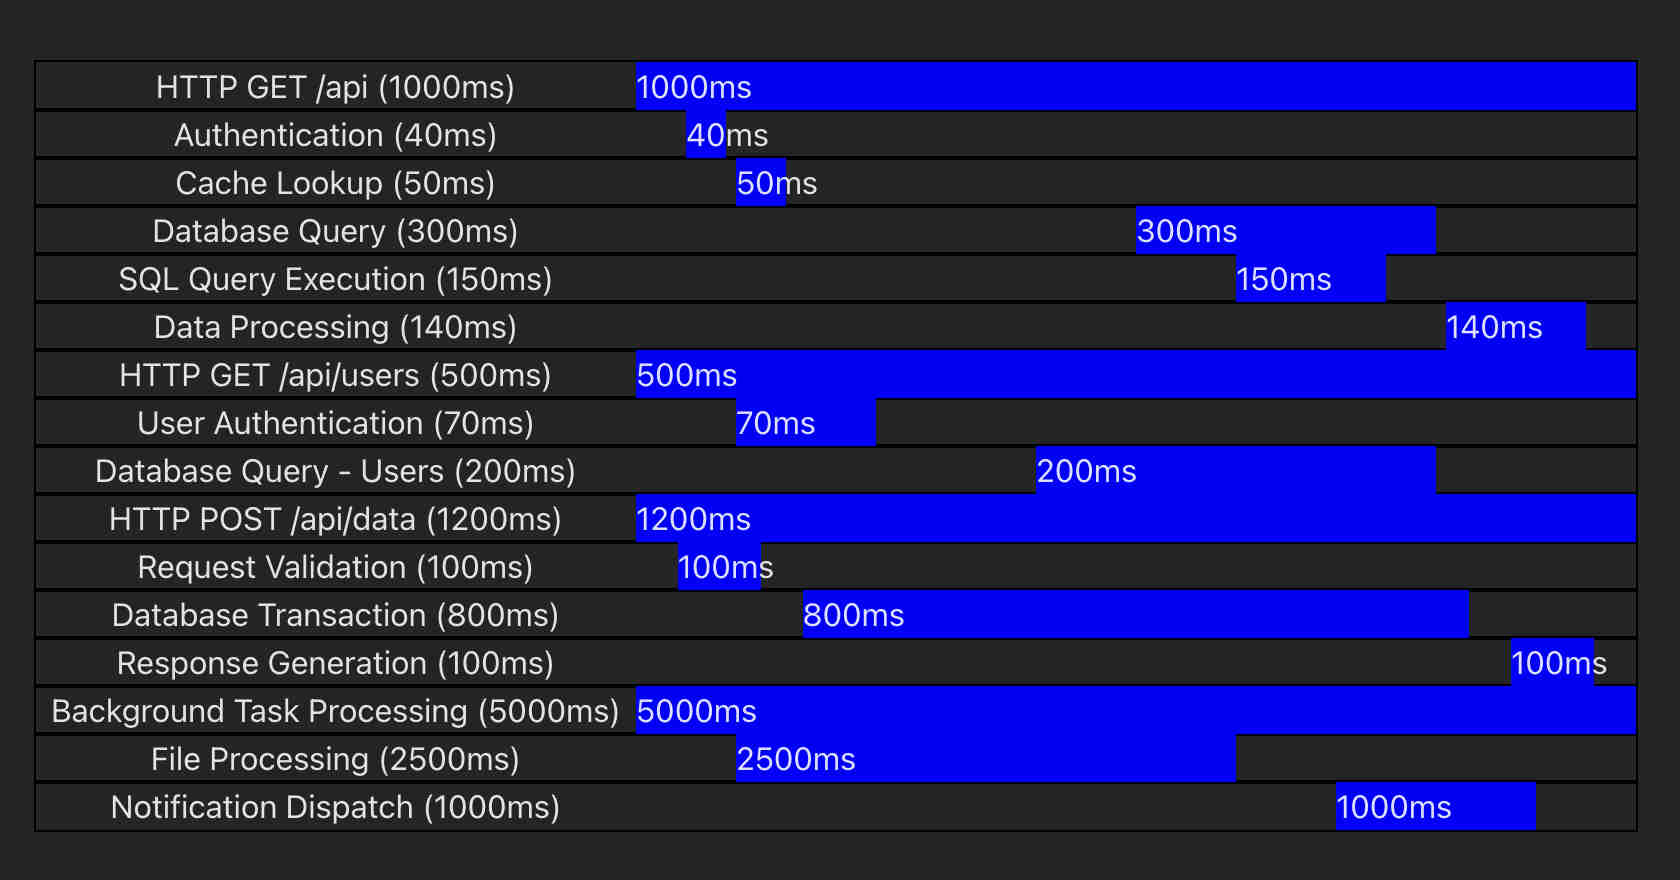
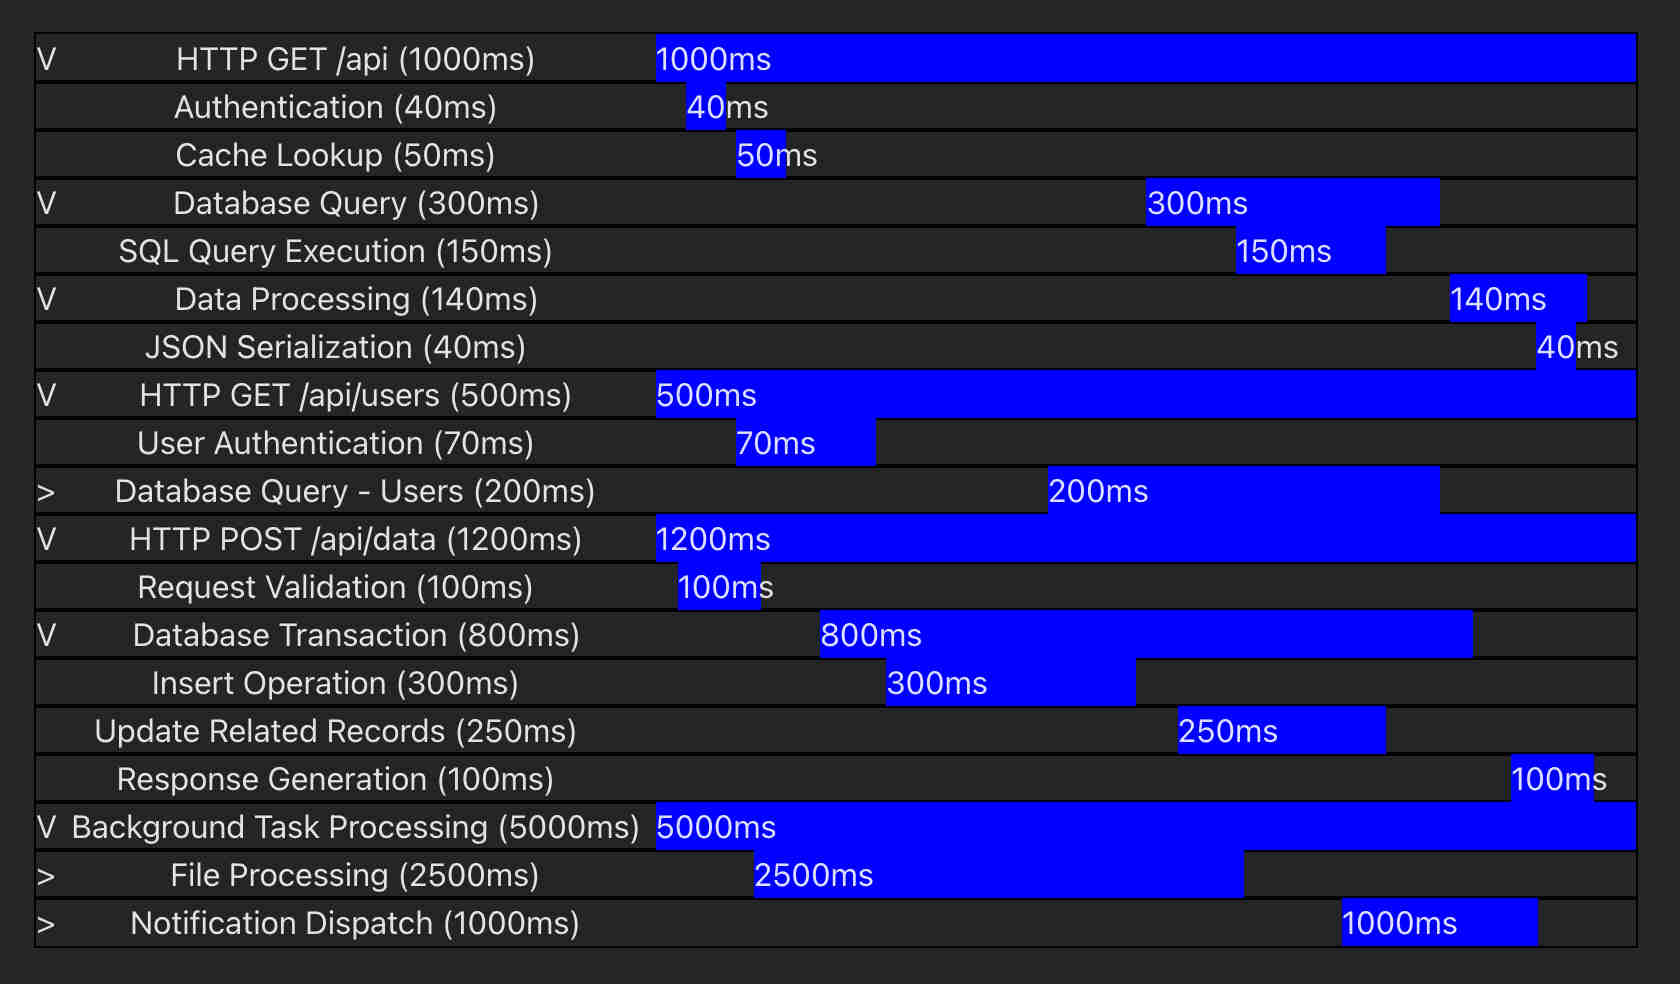
Remove unused props and improve expandability

diff --git a/src/components/SpansTree/SpanRow.tsx b/src/components/SpansTree/SpanRow.tsx
@@ -4,7 +4,6 @@ import { DurationBar } from "../DurationBar/DurationBar";
 
 export const SpanRow = ({
   span,
-  parentSpan,
   rootSpan,
 }: {
   span: Span;
@@ -12,21 +11,13 @@ export const SpanRow = ({
   rootSpan: Span | null;
 }) => {
   const [isExpanded, setIsExpanded] = useState(false);
-  const parenSpanDuration = parentSpan
-    ? parentSpan.endTime.getTime() - parentSpan.startTime.getTime()
-    : null;
-  const parenSpanStarTime = parentSpan ? parentSpan.startTime : null;
-
-  const rootSpanDuration = rootSpan
-    ? rootSpan.endTime.getTime() - rootSpan.startTime.getTime()
-    : null;
-  const rootSpanStarTime = rootSpan ? rootSpan.startTime : null;
+  const isExpandable = span.spans && span.spans.length > 0;
 
   return (
     <div>
       <div
         style={{
-          cursor: "pointer",
+          cursor: isExpandable ? "pointer" : "",
           display: "flex",
           outline: "1px solid black",
         }}
@@ -34,6 +25,7 @@ export const SpanRow = ({
           setIsExpanded(true);
         }}
       >
+        {isExpandable && <div>{isExpanded ? "V" : ">"}</div>}
         <div
           style={{
             width: "300px",
